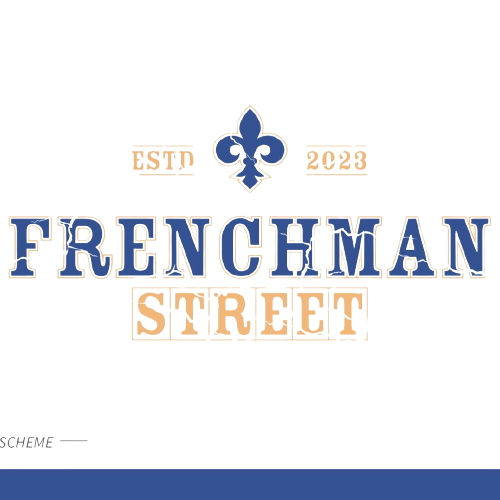
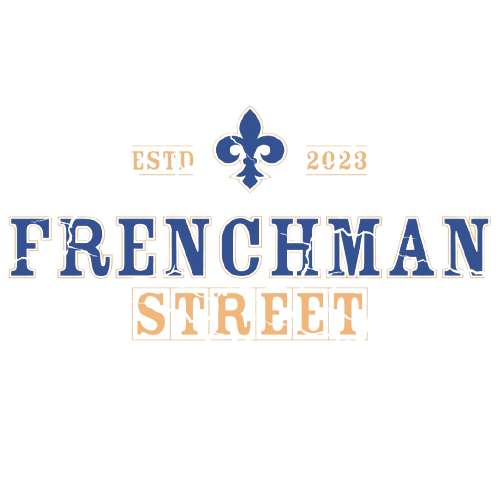
Layout improvements, added menu

Changed region(s): [[0.0, 0.93, 1.0, 1.0], [0.0, 0.87, 0.12, 0.9]]

diff --git a/pages/index.js b/pages/index.js
@@ -10,57 +10,123 @@ export default function Home() {
 
     return(
     <>
-        <div className="h-auto mx-auto shadow-xl shadow-black">
-            <div className={`transition-all duration-1000 pt-16 ${isVisible ? 'h-[75vh]' : 'h-[0vh]'} bg-no-repeat bg-[url(/bg.jpeg)] bg-cover bg-center`}>
-                <div className="md:w-64 m-auto h-full flex-col">
-                    <img src="/transBG.png" className="md:w-64 w-1/2 m-auto bg-white px-2"></img>
+        <div className="h-auto mx-auto shadow-black">
+            <div className={`transition-all duration-1000 ${isVisible ? 'h-[100vh]' : 'h-[0vh]'} bg-no-repeat bg-opacity-25 bg-center`}>
+                <div className="m-auto h-full w-full flex flex-col relative w-full">
+                    <div className={`w-full bg-white border-b-4 border-blue-500 transition-all duration-1000 ${isVisible ? 'mr-0' : 'mr-[400vh]'}`}>
+                        <img
+                            src="/transBG.png"
+                            className="rounded-xl mx-auto opacity-90 h-[33vh] px-2 mt-16 md:shadow-black"
+                            alt="Frenchman Street Logo"
+                        />
+                    </div>
                 </div>
             </div>
-            <div className="lg:flex font-black bg-black text-white h-1/2 md:pl-8">
-                <div className={`shadow-xl mx-4 md:max-w-[480px] relative bg-white rounded-xl mb-8 transition-all font-consolas duration-1000 ${isVisible ? '-mt-16' : 'mt-16'}`}>
-                    <h1 className="text-4xl text-white rounded-t-xl mx-auto bg-[#BF0603] p-6 text-center"> NOLA <span className="fas fa-plane"></span> ROC</h1>
-                    <div className="text-black p-6 pl-6">
-                        <h1> Name: </h1>
-                        <p className="font-black text-2xl mb-2 font-consolas"> Frenchman Street</p>
-                        <div className="md:flex mb-4 justify-between">
+            <div className="lg:flex justify-between backdrop-blur font-black text-white h-1/2 bg-gradient-to-tr from-slate-900/50 to-slate-500/75 lg:pl-6">
+                <div className={`lg:w-1/3 relative lg:mr-6 transition-all duration-1000 ${isVisible ? 'lg:mt-6 ' : 'lg:mt-16'}`}>
+                    <h1 className="text-4xl text-white mx-auto bg-[#BF0603]/75 lg:rounded-t-xl p-6 text-center"> NOLA <span className="fas fa-plane mx-2"></span> ROC</h1>
+                    <div className="text-black p-6 pl-6 font-serif bg-white">
+                        <p className="font-serif text-2xl mb-2"> Frenchman Street</p>
+                        <p className="mb-4 leading-5 font-serif font-thin indent-4"> Welcome to Frenchman Street, an authentic taste of New Orleans nestled in the heart of Downtown Rochester, NY. Our culinary journey is inspired by the vibrant spirit of the famous Frenchman Street, bringing the soulful flavors of Creole and Cajun cuisine to Upstate New York. Immerse yourself in the lively atmosphere of a New Orleans jazz club, indulge in classic dishes like gumbo and jambalaya, and let the rhythms of jazz transport you to the lively streets of the Big Easy. Join us and experience the essence of Louisiana right here in Rochester!</p>
+                        <div className="lg:flex mb-4 justify-between">
                             <div>
                                 <h1> Address: </h1>
-                                <p className="font-normal font-consolas text-lg mb-2"> Mercantile On Main <br/> 240 E Main St.</p>
+                                <p className="font-normal font-serif text-lg mb-2"> Mercantile On Main <br/> 240 E Main St.</p>
                             </div>
                             <div>
                                 <h1> Hours: </h1>
-                                <p className="font-normal text-lg font-consolas"> 
+                                <p className="font-serif font-normal text-lg"> 
                                 Monday-Friday <br/> 
                                 11:30am - 8:00pm</p>
                             </div>
                         </div>
-                        <h1> About: </h1>
-                        <p className="font-normal font-consolas mb-2 leading-5 indent-8"> Welcome to Frenchman Street, an authentic taste of New Orleans nestled in the heart of Downtown Rochester, NY. Our culinary journey is inspired by the vibrant spirit of the famous Frenchman Street, bringing the soulful flavors of Creole and Cajun cuisine to Upstate New York. Immerse yourself in the lively atmosphere of a New Orleans jazz club, indulge in classic dishes like gumbo and jambalaya, and let the rhythms of jazz transport you to the lively streets of the Big Easy. Join us and experience the essence of Louisiana right here in Rochester!</p>
-                        <h1 className="text-lg"> Contact: </h1>
-                        <p className="font-normal mb-2 font-consolas"> <b>Phone:</b> 555-345-7890</p>
-                        <p className="font-normal mb-2 font-consolas"> Email: contact@frenchman.st</p>
-                        <img className="w-1/2" src="/barcode.png"/>
+                        <h1 className="text-lg font-serif"> Contact: </h1>
+                        <p className="font-serif font-normal">
+                            <b>Phone:</b> 
+                            <a href="tel:555-345-7890" className="text-blue-500"> 555-345-7890</a>
+                        </p>
+                        <p className="font-serif font-normal">
+                            <b>Email:</b> 
+                            <a href="mailto:contact@frenchman.st" className="text-blue-500"> contact@frenchman.st</a>
+                        </p>
+
                     </div>
                 </div>
-                <div className="backdrop-blur p-6 lg:1/3">
+                <div className="text-black lg:w-1/3 text-white h-full mx-6 lg:mx-0 lg:mb-6">
                     <div className="">
-                        <h1 className="text-3xl font-black"> Rochester&apos;s Spot For Authentic Creole Cuisine!</h1>
-                        <p className="mt-6 text-sm">Step into Frenchman Street and immerse yourself in the lively ambiance of a New Orleans jazz club. The rustic decor, adorned with Mardi Gras colors and jazz-inspired art, creates an inviting and energetic space. Whether you&apos;re enjoying a meal with friends or sipping on a classic cocktail at the bar, our restaurant embodies the vibrant and welcoming spirit of the French Quarter. </p>
-                        <button href="/events" className="mt-4 px-4 py-2  rounded-lg ml-auto bg-white text-black "> View Menu</button>
-                        <img src="/food.jpg" className="mt-6 rounded-xl shadow-xl shadow-black/50"></img>
+                        <h1 className="text-3xl font-black mt-8 mb-4"> Rochester&apos;s Spot For Authentic Creole Cuisine!</h1>
+                        <p className="text-lg">Step into Frenchman Street and immerse yourself in the lively ambiance of a New Orleans jazz club. The rustic decor, adorned with Mardi Gras colors and jazz-inspired art, creates an inviting and energetic space. Whether you&apos;re enjoying a meal with friends or sipping on a classic cocktail at the bar, our restaurant embodies the vibrant and welcoming spirit of the French Quarter. </p>
+                        <button href="/events" className="mt-6 px-4 py-2 ml-auto bg-white text-black "> View Menu</button>
+                        <img src="/food.jpg" className="py-6"></img>
                     </div>
                 </div>
-                <div className="bg-black text-white backdrop-blur p-6 lg:flex-grow">
-                    <div className="">
-                        <img src="/food2.jpg" className="mt-6 rounded-xl mb-6 shadow-xl shadow-black/50"></img>
-                        <h1 className="text-3xl font-black"> Jazz Up Your Dining Experience! </h1>
-                        <p className="mt-6 text-sm"> Indulge in the soulful melodies of New Orleans, the rich flavors of Creole and Cajun cuisine, and the warmth of Southern hospitality. At Frenchman Street, every visit is a celebration of life, love, and good food. We invite you to join us on this gastronomic adventure and let the flavors of the Big Easy take you on a journey through the heart of Louisiana, right here in Rochester, NY. </p>
-                        <button href="/events" className="mt-4 px-4 py-2  rounded-lg ml-auto bg-white text-black"> Learn More</button>
+                <div className="text-white backdrop-blur lg:mr-6 lg:w-1/3 w-full pb-6 pt-6">
+                    <div className="md:rounded-xl w-full md:flex lg:block">
+                        <div className="w-full md:w-1/2 lg:w-full">
+                            <img src="/food2.jpg" className="pr-6 md:pr-0 pl-6 mb-6"></img>
+                        </div>
+                        <div className="w-full md:w-1/2 lg:w-full">
+                            <h1 className="text-xl font-black mb-4 px-6 font-serif"> A Culinary Odyssey: From NOLA to Rochester </h1>
+                            <p className="text-lg px-6"> Discover the culinary magic of our Head Chef at Frenchman Street, whose journey from the vibrant streets of New Orleans to the heart of Rochester's Frenchman Street has shaped a tantalizing fusion of flavors. With expertise garnered in the lively food scene of New Orleans, our chef brings the soulful essence of Cajun and Creole cuisine to your plate, infusing it with a touch of Rochester's local charm. Join us for an unforgettable dining experience that embodies the best of both worlds, a testament to our chef's passion and culinary artistry. </p>
+                            <div className='w-full flex pr-6'>
+                                <button href="/events" className="mt-4 px-4 py-2 ml-auto bg-black text-white"> Learn More</button>
+                            </div>
+                        </div>
                     </div>
                 </div>
             </div>
-            <div>
-                
+            <div className="h-[100vh] md:pt-32 p-6  font-serif bg-white">
+                <h2 className="text-6xl mb-10 border-b-2 border-black pb-2"> MENU </h2>
+                <div className="md:flex md:space-x-6 space-y-6 md:space-y-0 pb-6">
+                    <div className=" font-semibold">
+                        <h3 className="mb-6 text-2xl"> Appetizers</h3>
+                        <div>
+                            <span className="flex justify-between">
+                                <h4 className="text-xl font-normal uppercase"> Jambalaya </h4>
+                                <span> $15.99</span>
+                            </span>
+                            <p className="text-normal text-normal font-thin leading-2 pt-2 italic">
+                            Our mouthwatering Jambalaya is a celebration of flavors that transport you straight to the heart of New Orleans. A harmonious blend of spicy and savory, this dish features tender chunks of chicken, succulent shrimp, and spicy Andouille sausage, all simmered to perfection in a rich Creole tomato sauce. Served over a bed of fragrant rice and garnished with fresh green onions, it's a Cajun classic that's sure to satisfy your cravings for a taste of the Bayou. Come experience the true essence of NOLA right here at our restaurant!
+                            </p>
+                        </div>
+                    </div>
+                    <div className="font-semibold">
+                        <h3 className="mb-6 text-2xl"> Appetizers</h3>
+                        <div>
+                            <span className="flex justify-between">
+                                <h4 className="text-xl font-normal uppercase"> Jambalaya </h4>
+                                <span> $15.99</span>
+                            </span>
+                            <p className="text-normal text-normal font-thin leading-2 pt-2 italic">
+                            Our mouthwatering Jambalaya is a celebration of flavors that transport you straight to the heart of New Orleans. A harmonious blend of spicy and savory, this dish features tender chunks of chicken, succulent shrimp, and spicy Andouille sausage, all simmered to perfection in a rich Creole tomato sauce. Served over a bed of fragrant rice and garnished with fresh green onions, it's a Cajun classic that's sure to satisfy your cravings for a taste of the Bayou. Come experience the true essence of NOLA right here at our restaurant!
+                            </p>
+                        </div>
+                    </div>
+                    <div className="font-semibold">
+                        <h3 className="mb-6 text-2xl"> Appetizers</h3>
+                        <div>
+                            <span className="flex justify-between">
+                                <h4 className="text-xl font-normal uppercase"> Jambalaya </h4>
+                                <span> $15.99</span>
+                            </span>
+                            <p className="text-normal text-normal font-thin leading-2 pt-2 italic">
+                            Our mouthwatering Jambalaya is a celebration of flavors that transport you straight to the heart of New Orleans. A harmonious blend of spicy and savory, this dish features tender chunks of chicken, succulent shrimp, and spicy Andouille sausage, all simmered to perfection in a rich Creole tomato sauce. Served over a bed of fragrant rice and garnished with fresh green onions, it's a Cajun classic that's sure to satisfy your cravings for a taste of the Bayou. Come experience the true essence of NOLA right here at our restaurant!
+                            </p>
+                        </div>
+                    </div>
+                    <div className="font-semibold">
+                        <h3 className="mb-6 text-2xl"> Appetizers</h3>
+                        <div>
+                            <span className="flex justify-between">
+                                <h4 className="text-xl font-normal uppercase"> Jambalaya </h4>
+                                <span> $15.99</span>
+                            </span>
+                            <p className="text-normal text-normal font-thin leading-2 pt-2 italic">
+                            Our mouthwatering Jambalaya is a celebration of flavors that transport you straight to the heart of New Orleans. A harmonious blend of spicy and savory, this dish features tender chunks of chicken, succulent shrimp, and spicy Andouille sausage, all simmered to perfection in a rich Creole tomato sauce. Served over a bed of fragrant rice and garnished with fresh green onions, it's a Cajun classic that's sure to satisfy your cravings for a taste of the Bayou. Come experience the true essence of NOLA right here at our restaurant!
+                            </p>
+                        </div>
+                    </div>
+                </div>
             </div>
         </div>
     </>

diff --git a/components/header.js b/components/header.js
@@ -5,7 +5,7 @@ import { MenuAlt1 } from 'heroicons-react';
 
 const Navbar = () => {
   return (
-    <nav className="p-4 fixed top-0 left-0 w-full items-center bg-[#325091] border-y-4 border-[#EEB970] text-white z-50">
+    <nav className="p-4 fixed top-0 left-0 w-full items-center bg-[#325091]/75 text-white z-50">
       <div className="md:hidden">
         <MenuAlt1 className="w-8 h-8" />
       </div>
@@ -24,7 +24,7 @@ const Navbar = () => {
             Contact
           </Link>
         </div>
-        <Link href="/contact" className="bg-[#BF0603] inline rounded-full px-4 py-2 items-center">
+        <Link href="/contact" className="bg-[#BF0603]/90 inline px-4 py-2 items-center">
             <span className="block text-lg font-bold items-center" >
               Order Online
             </span>

diff --git a/pages/_document.js b/pages/_document.js
@@ -17,7 +17,7 @@ export default class MyDocument extends Document {
           <link rel="stylesheet" href="https://cdnjs.cloudflare.com/ajax/libs/font-awesome/6.0.0-beta3/css/all.min.css"/>
 
         </Head>
-        <body className="relative w-full bg-white">
+        <body className="bg-no-repeat bg-fill bg-cover bg-center md:bg-fixed bg-[url(/bg2.jpg)] max-h-[100vh]">
           <Main />
           <NextScript />
         </body>
